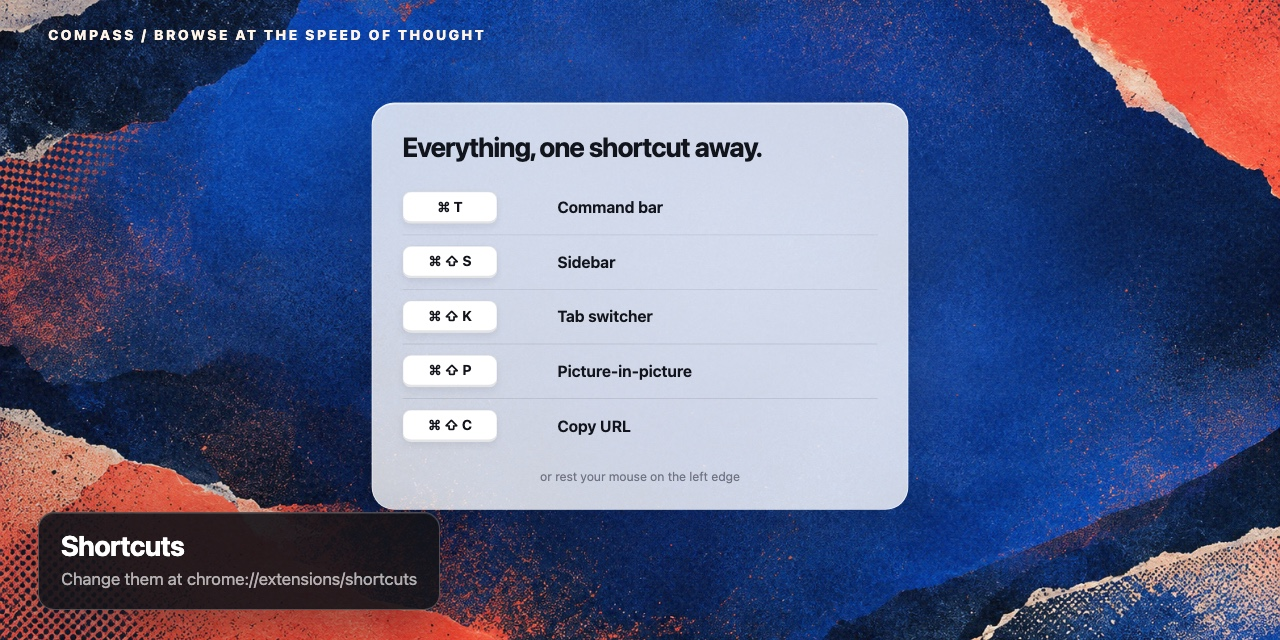
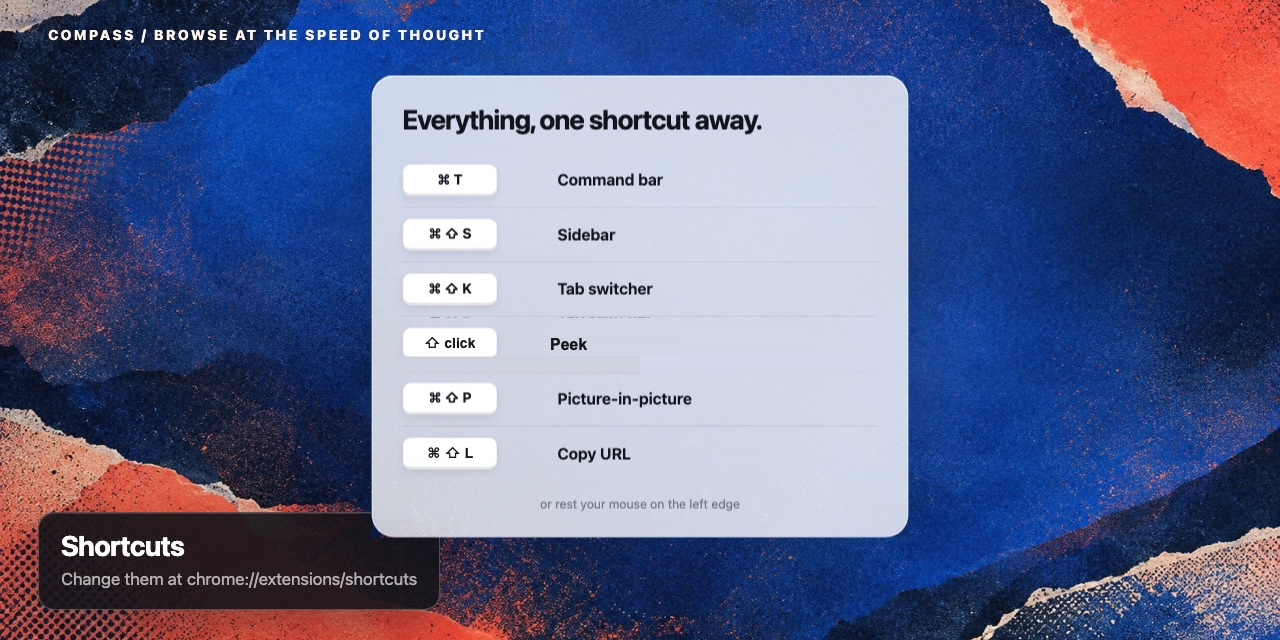
Shortcuts graphic: Peek row, Copy URL is Cmd+Shift+L

Changed region(s): [[0.2812, 0.0938, 0.7188, 0.75], [0.2812, 0.7812, 0.7188, 0.8438], [0.4375, 0.5312, 0.5625, 0.75]]

diff --git a/README.md b/README.md
@@ -23,7 +23,7 @@ Chrome extension, no build step, no dependencies.
 
 Shortcuts are written for Mac. On Windows and Linux, read `Cmd` as `Ctrl`. Change any of them at `chrome://extensions/shortcuts`.
 
-![All the shortcuts: Cmd+T command bar, Cmd+Shift+S sidebar, Cmd+Shift+K tab switcher, Cmd+Shift+P picture-in-picture, Cmd+Shift+L copy URL](docs/store-assets/06-shortcuts.jpg)
+![All the shortcuts: Cmd+T command bar, Cmd+Shift+S sidebar, Cmd+Shift+K tab switcher, Shift+click peek, Cmd+Shift+P picture-in-picture, Cmd+Shift+L copy URL](docs/store-assets/06-shortcuts.jpg)
 
 ## What it does
 
